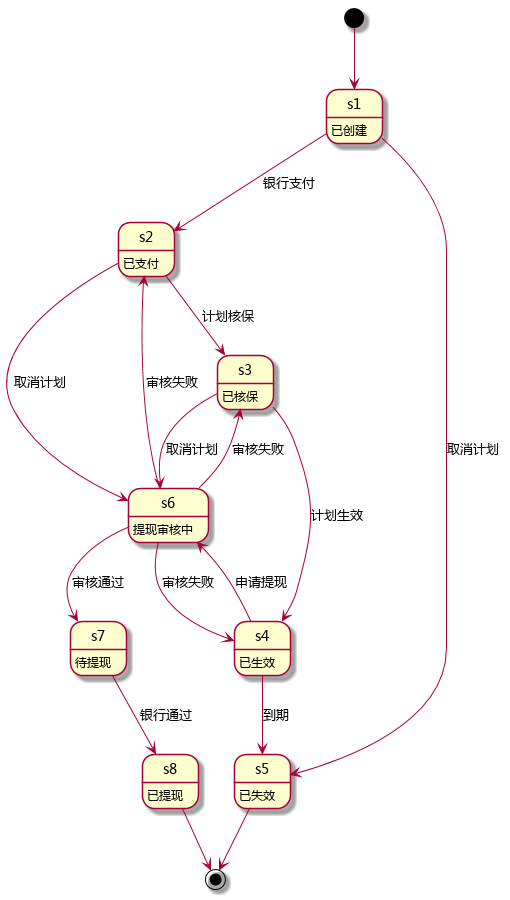
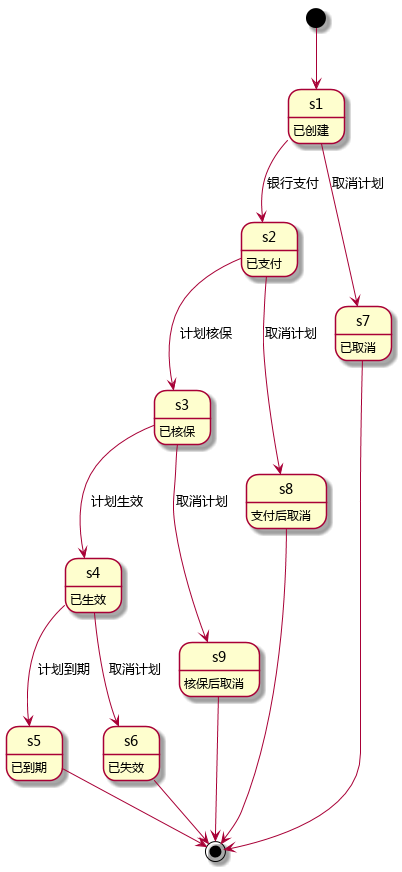
Refactor order status

diff --git a/doc/order.md b/doc/order.md
@@ -92,6 +92,11 @@
 
 # ChangeLog
 
+1. 2017-03-17
+  * 修改了订单状态，去掉了提现相关状态，增加了支付后取消和核保后取消两个订单状态
+  * 删除 order-event 数据结构的 last-state 属性
+  * 删除 order_events 表的 last_state 字段
+
 1. 2017-03-15
   * 增加 addDrivers 接口
   * 增加 delDrivers 接口
@@ -310,7 +315,6 @@
 | id          | uuid | 主键                |
 | oid         | uuid | 订单 ID             |
 | uid         | uuid | 触发事件的人        |
-| last_state  | int  | 上一个事件订单状态  |
 | data        | json | JSON 格式的事件数据 |
 | occurred-at | date | 事件发生时间        |
 
@@ -537,7 +541,6 @@ index 是多选项的下标索引
 | uid         | uuid      |      |         |         |           |
 | event_type  | smallint  |      |         |         |           |
 | order_type  | smallint  |      |         |         |           |
-| last_state  | smallint  |      |         |         |           |
 | data        | json      |      |         |         |           |
 | occurred_at | timestamp |      | now     |         |           |
 
